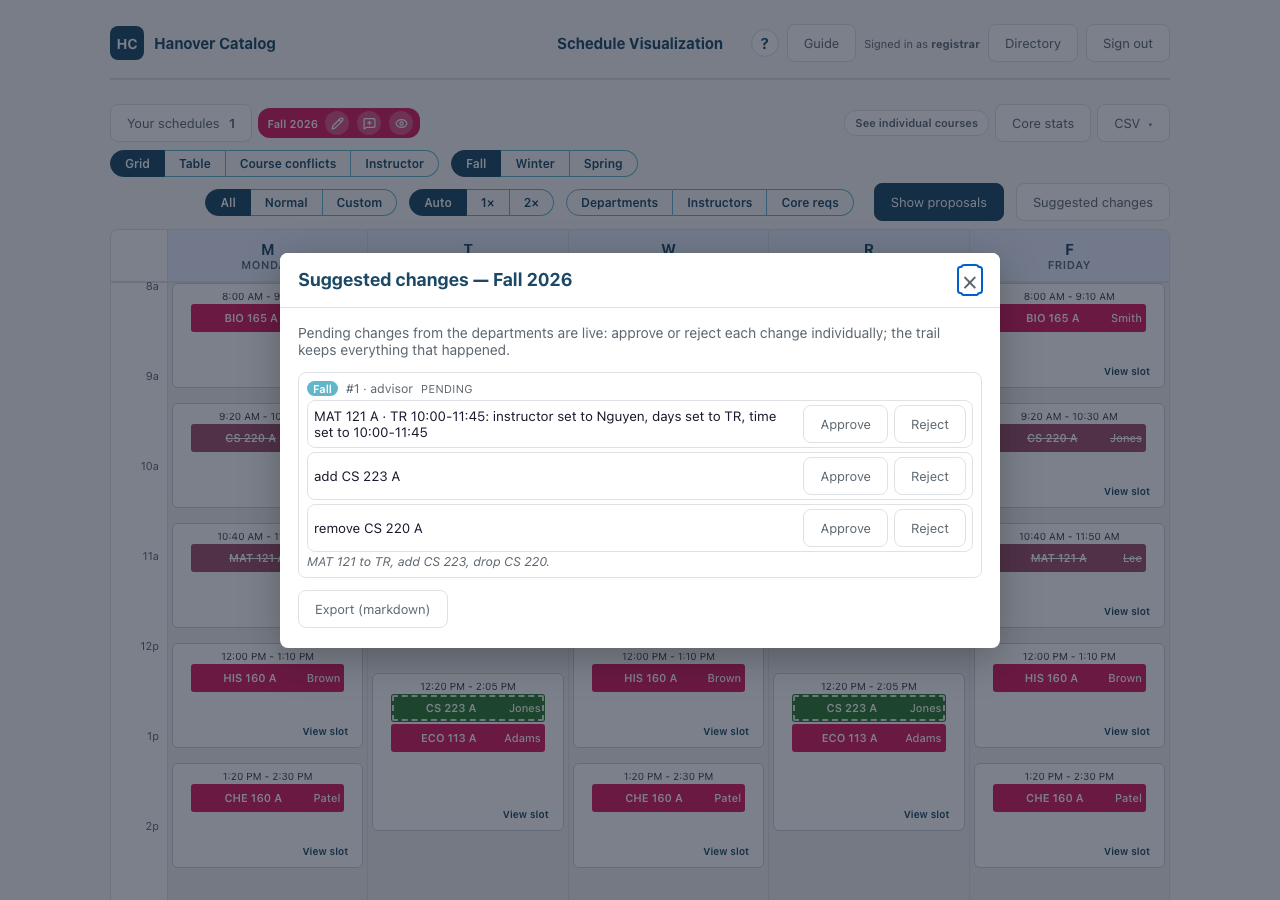
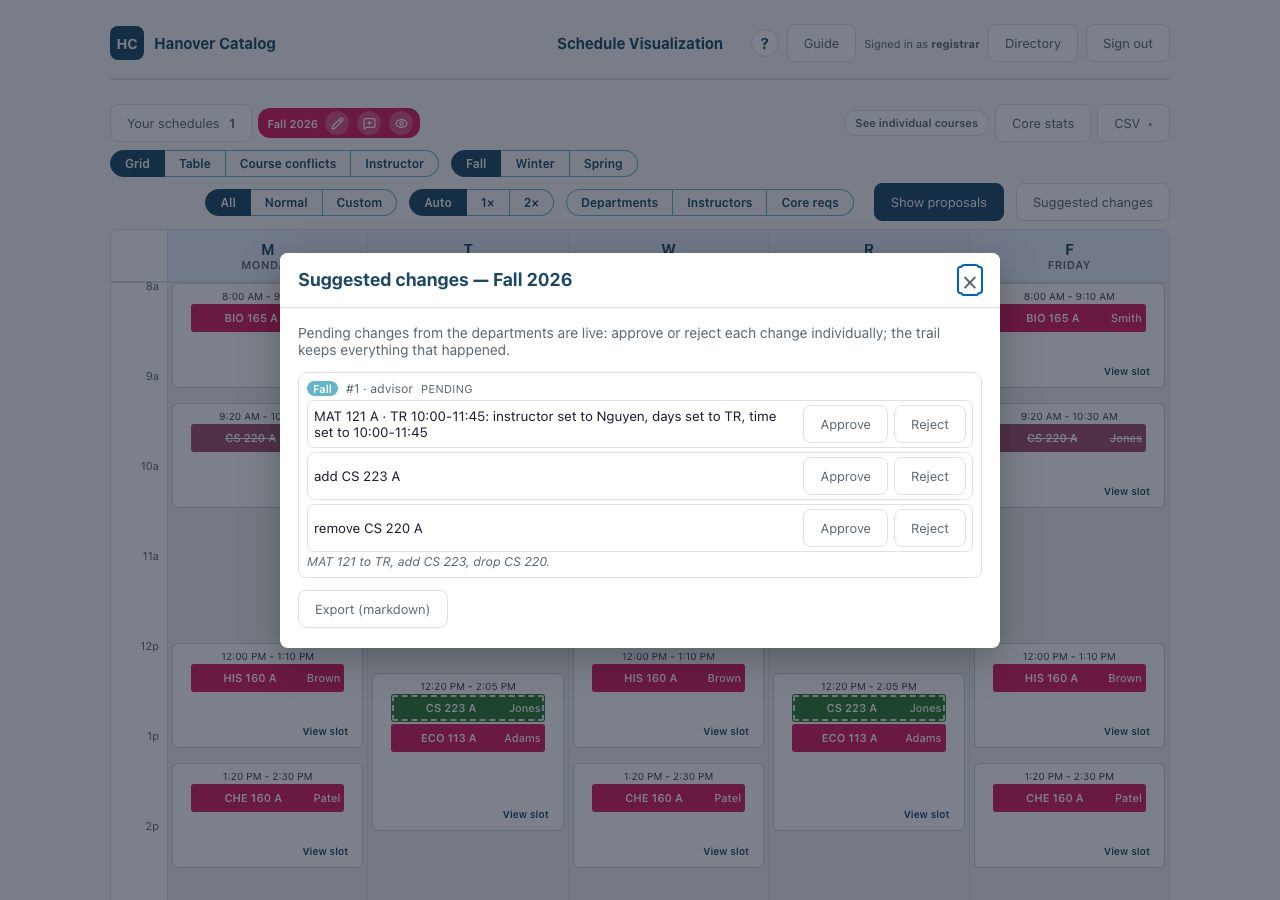
fix(schedule): hide a moved meeting's old slot by exact row identity
The overlay keyed offerings by the section tuple (prefix|number|section),
which split-meeting rows share — so a proposed move could resolve to the
wrong sibling, a move/removal would hide or strike the whole section, and a
proposed second meeting (same tuple, new id) was skipped as 'already
present'. Give schedule-core a shared id-first offeringIdentity (diff.js
now delegates to it) and make proposeOverlay resolve ops by content id,
falling back to the tuple for id-less/legacy ops and adopting the row's id
so callers can target the exact row.

The store then keys its overlay by that identity: a move hides only the
named meeting's old slot and dashes the new one, a removal strikes only the
named row, and a split meeting's other rows are untouched. Supersedes the
move-strike behaviour. Guide and proposal screenshots updated.

Changed region(s): [[0.7812, 0.5911, 0.9062, 0.6533], [0.125, 0.5911, 0.2188, 0.6533]]

diff --git a/apps/schedule/src/scheduleStore.js b/apps/schedule/src/scheduleStore.js
@@ -28,6 +28,7 @@ import {
   assignOfferingIds,
   offeringCodeLabel,
   offeringSectionLabel,
+  offeringIdentity,
   matchOffering,
   proposeOverlay,
 } from '@major-vis/schedule-core'
@@ -2209,14 +2210,21 @@ export const scheduleOfferings = computed(() => {
 export const schedule = computed(() => buildIndex(scheduleOfferings.value))
 
 // The pending-suggestion overlay for the active term: the draw-on-top set from
-// `overlaySuggestions`, gated by the toolbar toggle. `removalsByKey` marks the
-// live blocks a proposal would take away — a removal's current row and the
-// source of a proposed move (which the view strikes so a moved course doesn't
-// read as a duplicate). `aware` distinguishes "showing nothing because the
-// toggle is off / nothing pending" from a live overlay.
-const overlayKey = (o) => `${o.prefix} ${o.number} ${o.section}`
+// `overlaySuggestions`, gated by the toolbar toggle. A proposal takes a live row
+// away — a removal's current row (drawn struck) and the source of a proposed
+// move (hidden from its old slot). Both are keyed by the id-first offering
+// identity so split-meeting siblings are never collided. `aware` distinguishes
+// "showing nothing because the toggle is off / nothing pending" from a live
+// overlay.
+const overlayKey = (o) => offeringIdentity(o)
 export const pendingOverlay = computed(() => {
-  const empty = { proposed: [], removals: [], removalsByKey: new Map(), aware: false }
+  const empty = {
+    proposed: [],
+    removals: [],
+    removalsByKey: new Map(),
+    movedFromKeys: new Set(),
+    aware: false,
+  }
   if (!showPendingSuggestions.value) return empty
   const list = overlaySuggestions.value
   if (!list.length) return empty
@@ -2230,31 +2238,32 @@ export const pendingOverlay = computed(() => {
       suggestionId: r.suggestionId,
     })
   }
+  const movedFromKeys = new Set()
   for (const p of proposed) {
-    if (p.kind === 'move' && p.from) {
-      removalsByKey.set(overlayKey(p.from), {
-        kind: 'move',
-        proposer: p.proposer,
-        suggestionId: p.suggestionId,
-      })
-    }
+    if (p.kind === 'move' && p.from) movedFromKeys.add(overlayKey(p.from))
   }
   return {
     proposed: proposed.map((p) => ({ ...p, scheduleId: scheduleOf.get(p.suggestionId) })),
     removals,
     removalsByKey,
+    movedFromKeys,
     aware: true,
   }
 })
 
 // The offerings every view draws: the base (published, or the suggest-session
-// draft) plus each proposed offering, tagged (`$sid`/`$prop`) so views can style
-// it and never treat it as a real, editable row.
+// draft), minus the source rows of proposed moves (hidden from their old slot),
+// plus each proposed offering, tagged (`$sid`/`$prop`) so views can style it and
+// never treat it as a real, editable row.
 export const shownOfferings = computed(() => {
-  const extra = pendingOverlay.value.proposed
+  const overlay = pendingOverlay.value
+  const extra = overlay.proposed
   if (!extra.length) return scheduleOfferings.value
+  const base = overlay.movedFromKeys.size
+    ? scheduleOfferings.value.filter((o) => !overlay.movedFromKeys.has(overlayKey(o)))
+    : scheduleOfferings.value
   return [
-    ...scheduleOfferings.value,
+    ...base,
     ...extra.map((p, i) => ({
       ...p.offering,
       $sid: 'prop:' + p.suggestionId + ':' + i,
@@ -2274,15 +2283,13 @@ export const shownSchedule = computed(() =>
 )
 
 // The pending marker on an offering, if any: a proposed block (`$prop` tag) or a
-// live block a proposal would take away (removal, or a move's source). Shared by
-// every view so the "proposed/removed" distinction and the tooltip wording live
-// in one place.
+// live block a proposal would remove. Shared by every view so the
+// "proposed/removed" distinction and the tooltip wording live in one place.
 export function overlayProposal(o) {
   return (o && o.$prop) || null
 }
 export function overlayRemoval(o) {
-  // A proposed block (`$prop`) is a destination, never a source to strike — even
-  // when it shares a section tuple with the move that created it.
+  // A proposed block (`$prop`) is a destination, never a removal target.
   if (!o || o.$prop) return null
   return pendingOverlay.value.removalsByKey.get(overlayKey(o)) || null
 }
@@ -2299,7 +2306,7 @@ export function overlayTitle(o, code) {
   const label = `${code || `${o.prefix} ${o.number}`}${o.section}`
   if (m.side === 'proposed')
     return `${label}: proposed ${m.kind === 'move' ? 'move' : 'add'} by ${m.proposer}`
-  return `${label}: ${m.kind === 'move' ? 'move' : 'removal'} proposed by ${m.proposer}`
+  return `${label}: removal proposed by ${m.proposer}`
 }
 // A short phrase for a row/tag: "Move proposed by advisor".
 export function overlayTag(o) {

diff --git a/packages/schedule-core/schedule.js b/packages/schedule-core/schedule.js
@@ -709,6 +709,16 @@ export function offeringKey(o) {
   return `${o.prefix || ''}|${o.number || ''}|${o.section || ''}${o.lab ? '|L' : ''}${o.lab ? o.labSeq || '' : ''}`
 }
 
+// The id-first identity of an offering record: its content `id` when present,
+// else the section-tuple `offeringKey`. This is the key form of `matchOffering`
+// (and diff.js's `offeringKey`), used wherever rows sharing a section tuple
+// (split meetings) must stay distinguishable — every overlay lookup, diff, and
+// apply path.
+export function offeringIdentity(o) {
+  if (!o) return ''
+  return o.id != null && o.id !== '' ? `id:${o.id}` : offeringKey(o)
+}
+
 // The stable render identity of an indexed offering item (`{ o, sid }` as
 // `buildIndex` produces): the record identity plus its content `id` (so
 // split-meeting rows sharing a section tuple stay distinct) and its source
@@ -1677,9 +1687,22 @@ export function buildEditVisual(mode, depts, instructors, colorFn, coreReqs = []
 // Pure: the caller filters which ops are still live (the store passes only
 // unresolved entries' payloads).
 export function proposeOverlay(baseOfferings, pendingSuggestions) {
-  const baseByKey = new Map()
+  // Two lookups over the base: by content id (split-meeting rows) and by the
+  // section tuple (id-less/legacy rows and ops that only name the tuple). An op
+  // that carries an id targets exactly that row; one without resolves by tuple
+  // and the returned identity adopts the row's id, so the caller can hide/mark
+  // the exact row. A tuple lookup never stands in for an id-bearing add, so
+  // adding a second meeting to a section (same tuple, new id) is a real block.
+  const baseById = new Map()
+  const baseByTuple = new Map()
   for (const o of baseOfferings || []) {
-    baseByKey.set(offeringKey(o), o)
+    baseByTuple.set(offeringKey(o), o)
+    if (o.id != null && o.id !== '') baseById.set(o.id, o)
+  }
+  const findBase = (o) => {
+    if (!o) return null
+    if (o.id != null && o.id !== '') return baseById.get(o.id) || null
+    return baseByTuple.get(offeringKey(o)) || null
   }
   const proposed = []
   const removals = []
@@ -1687,10 +1710,10 @@ export function proposeOverlay(baseOfferings, pendingSuggestions) {
     for (const op of sug.operations || []) {
       if (!op) continue
       if (op.kind === 'add' && op.offering) {
-        // An add for a section already on the schedule is a no-op, not a new
-        // block: skip it so an overlay can never ghost a duplicate (e.g. the
-        // proposer's own replayed suggestion, or two proposals for one course).
-        if (baseByKey.has(offeringKey(op.offering))) continue
+        // An add for a row already on the schedule is a no-op, not a new block:
+        // skip it so an overlay can never ghost a duplicate (e.g. the proposer's
+        // own replayed suggestion, or two proposals for one course).
+        if (findBase(op.offering)) continue
         proposed.push({
           offering: { ...op.offering },
           kind: 'add',
@@ -1699,7 +1722,7 @@ export function proposeOverlay(baseOfferings, pendingSuggestions) {
           proposer: sug.proposer,
         })
       } else if (op.kind === 'update' && op.cur) {
-        const cur = baseByKey.get(offeringKeyOf(op.cur)) || { ...op.cur, days: '', time: '' }
+        const cur = findBase(op.cur) || { ...op.cur, days: '', time: '' }
         const next = { ...cur, ...(op.changes || {}) }
         const moved = (next.days || '') !== (cur.days || '') || (next.time || '') !== (cur.time || '')
         if (!moved || !next.days || !next.time) continue
@@ -1712,20 +1735,22 @@ export function proposeOverlay(baseOfferings, pendingSuggestions) {
             section: cur.section,
             lab: cur.lab,
             labSeq: cur.labSeq,
+            ...(cur.id != null && cur.id !== '' ? { id: cur.id } : {}),
           },
           suggestionId: sug.id,
           proposer: sug.proposer,
         })
       } else if (op.kind === 'remove' && op.cur) {
-        removals.push({ cur: { ...op.cur }, suggestionId: sug.id, proposer: sug.proposer })
+        // Keep the op's own identity fields, adopting the resolved row's id so a
+        // tuple-only removal still marks the exact (split-meeting) row.
+        const cur = { ...op.cur }
+        const base = findBase(op.cur)
+        if ((cur.id == null || cur.id === '') && base && base.id != null && base.id !== '') cur.id = base.id
+        removals.push({ cur, suggestionId: sug.id, proposer: sug.proposer })
       }
     }
   }
   return { proposed, removals }
-}
-
-function offeringKeyOf(o) {
-  return offeringKey(o)
 }
 
 // ---------------------------------------------------------------------------

diff --git a/packages/schedule-core/test/schedule.test.js b/packages/schedule-core/test/schedule.test.js
@@ -2431,6 +2431,57 @@ test('proposeOverlay skips an add for a section already on the schedule', () => 
   assert.equal(proposed[0].offering.section, 'B')
 })
 
+test('proposeOverlay targets a split-meeting row by id, not its tuple sibling', () => {
+  // Two meetings of one section: same tuple, distinct content ids.
+  const base = [
+    { prefix: 'MUS', number: '001', section: 'A', id: 'oA', days: 'MW', time: '10:00-11:00' },
+    { prefix: 'MUS', number: '001', section: 'A', id: 'oB', days: 'R', time: '13:00-14:30' },
+  ]
+  const update = {
+    id: 5,
+    proposer: 'music',
+    operations: [
+      // Move only oB; the days-only change keeps the resolved row's own band
+      // visible in the result, so a tuple lookup (which would find oA) differs.
+      {
+        kind: 'update',
+        cur: { prefix: 'MUS', number: '001', section: 'A', id: 'oB' },
+        changes: { days: 'F' },
+      },
+    ],
+  }
+  const moved = proposeOverlay(base, [update]).proposed
+  assert.equal(moved.length, 1)
+  assert.equal(moved[0].from.id, 'oB')
+  assert.equal(moved[0].offering.days, 'F')
+  assert.equal(moved[0].offering.time, '13:00-14:30', "resolved oB's band, not oA's")
+
+  // Add of a second meeting (same tuple, new id) is a real new block...
+  const add = {
+    id: 6,
+    proposer: 'music',
+    operations: [
+      {
+        kind: 'add',
+        offering: { prefix: 'MUS', number: '001', section: 'A', id: 'oC', days: 'T', time: '9:00-10:00' },
+      },
+    ],
+  }
+  assert.equal(proposeOverlay(base, [add]).proposed.length, 1)
+  // ...but re-adding an existing id is still skipped.
+  const dup = {
+    id: 7,
+    proposer: 'music',
+    operations: [
+      {
+        kind: 'add',
+        offering: { prefix: 'MUS', number: '001', section: 'A', id: 'oA', days: 'MW', time: '10:00-11:00' },
+      },
+    ],
+  }
+  assert.equal(proposeOverlay(base, [dup]).proposed.length, 0)
+})
+
 // ---------------------------------------------------------------------------
 // Day timeline: lane assignment + expanded range
 // ---------------------------------------------------------------------------

diff --git a/packages/schedule-core/diff.js b/packages/schedule-core/diff.js
@@ -16,7 +16,7 @@
 
 import {
   addOfferingToSchedule,
-  offeringKey as tupleKey,
+  offeringIdentity,
   removeOfferingFromSchedule,
   updateOfferingInSchedule,
   courseNumberLabel,
@@ -25,10 +25,10 @@ import {
 
 // Tuple key identifying an offering by id (preferred) or prefix/number/section
 // (plus the lab marker, so a lab section never matches the lecture section it
-// mirrors).
+// mirrors). Delegates to the shared id-first identity so diff/apply and the
+// overlay agree on what "the same row" means (split meetings).
 export function offeringKey(o) {
-  if (o.id != null && o.id !== '') return `id:${o.id}`
-  return tupleKey(o)
+  return offeringIdentity(o)
 }
 
 // The editable fields considered when diffing two offerings. `seats` is a

diff --git a/docs-site/guide/schedule/proposals.md b/docs-site/guide/schedule/proposals.md
@@ -29,11 +29,11 @@ and **Reject**.
 
 Pending suggestions are also drawn over every view — the calendar, the table,
 and the instructor and course pages. A class someone proposes to add appears
-with a **dashed outline**; a proposed move dashes the new block and **strikes
-through** the block it is leaving; and a class a proposal would remove is shown
-**struck through** in place. Proposed blocks are never draggable. The **Show
-proposals** button on the toolbar switches this overlay on and off; it appears
-in every view whenever the term has pending proposals.
+with a **dashed outline**; a proposed move dashes the new block and **hides**
+the block it is leaving (only the new slot shows); and a class a proposal would
+remove is shown **struck through** in place. Proposed blocks are never
+draggable. The **Show proposals** button on the toolbar switches this overlay
+on and off; it appears in every view whenever the term has pending proposals.
 
 <Shot file="schedule-proposals-grid.png" />
 
